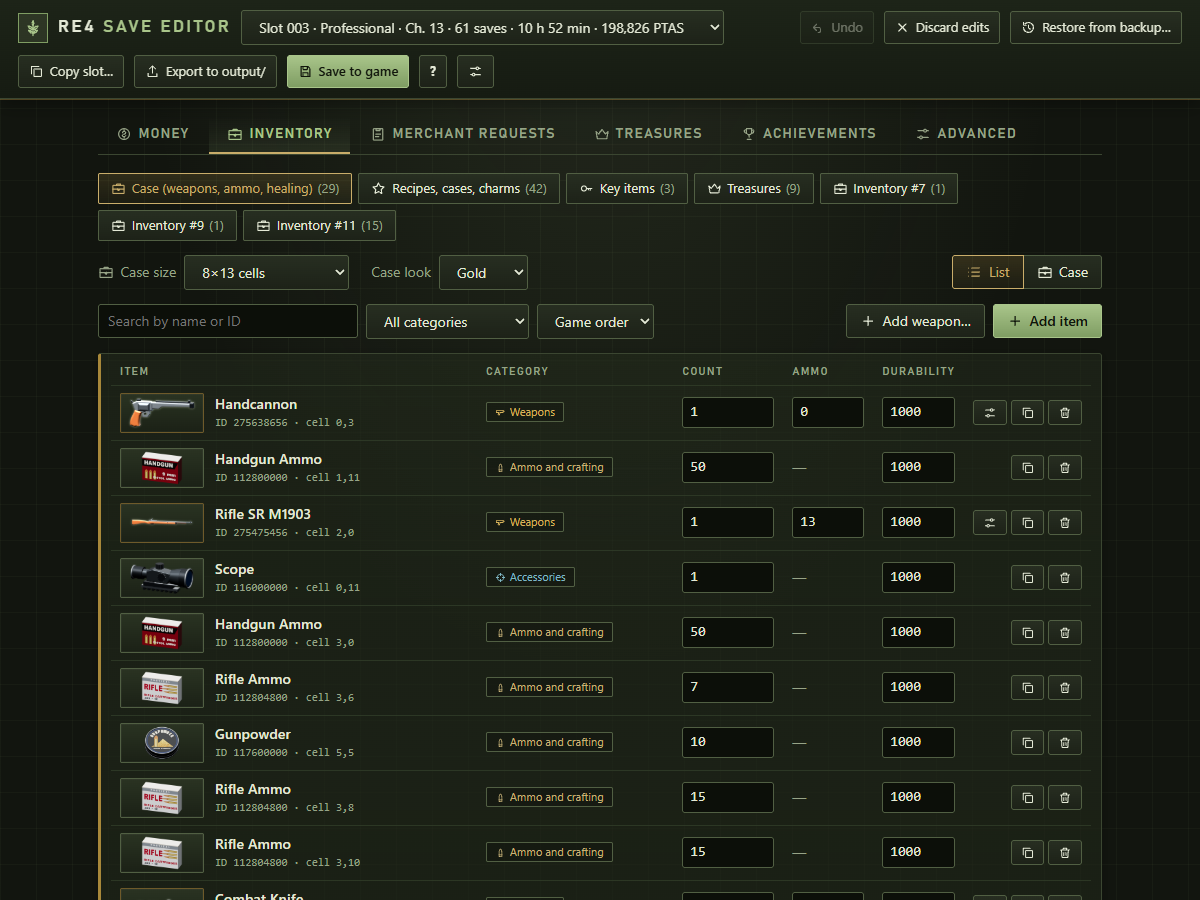
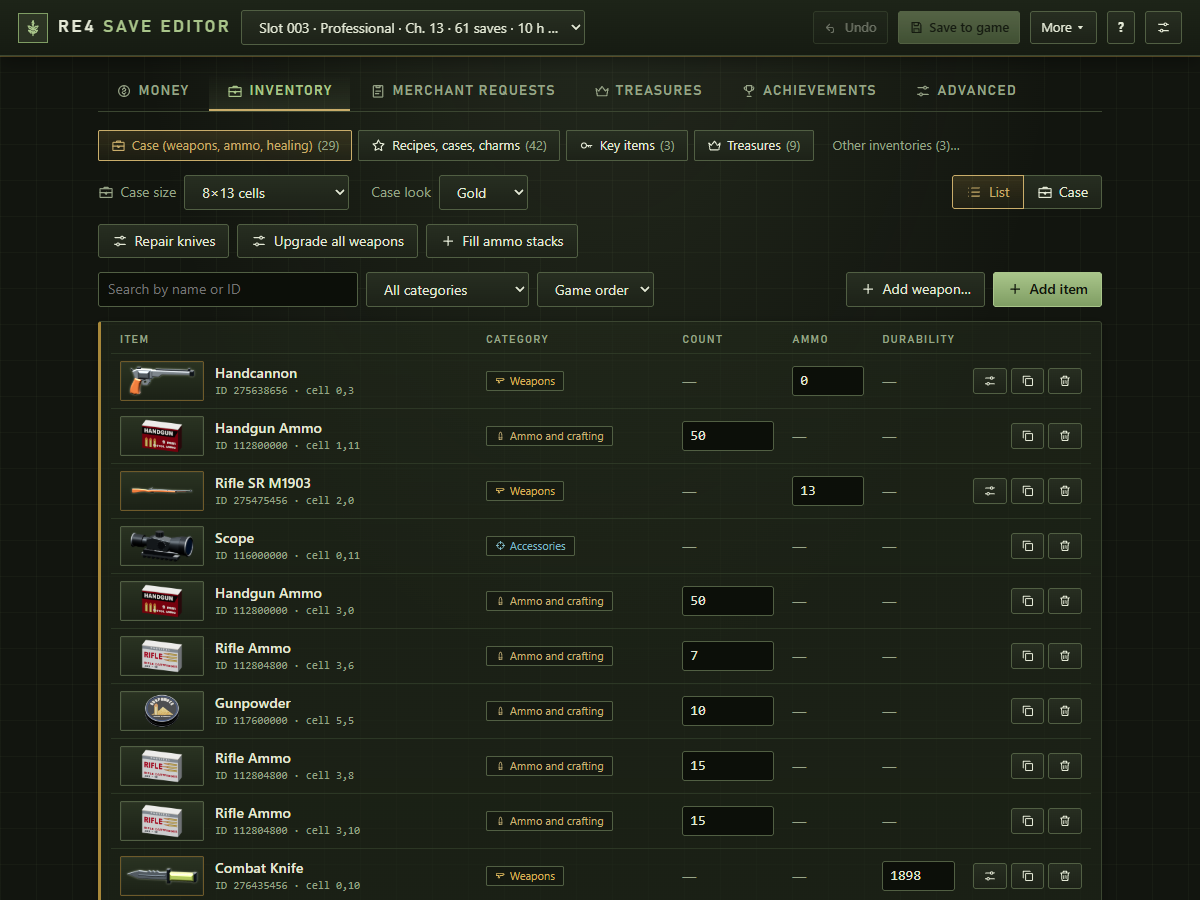
Version 0.9.6 (pre-release)
Short What's new list (the window shows the part before ### Details), release notes, Nexus page text, README and new screenshots.

diff --git a/app/server.js b/app/server.js
@@ -328,7 +328,8 @@ function releaseNotes(version) {
   const lines = text.split(/\r?\n/); const start = lines.findIndex((l) => l === '## ' + version || l.startsWith('## ' + version + ' '));
   if (start < 0) return [];
   const out = [];
-  for (const l of lines.slice(start + 1)) { if (l.startsWith('## ')) break; if (l.startsWith('- ')) out.push(l.slice(2).trim()); }
+  // only the short list at the top of the section: the full list follows under "### Details"
+  for (const l of lines.slice(start + 1)) { if (l.startsWith('## ') || l.startsWith('### ')) break; if (l.startsWith('- ')) out.push(l.slice(2).trim()); }
   return out;
 }
 

diff --git a/docs/RELEASE-0.9.6.md b/docs/RELEASE-0.9.6.md
@@ -1,0 +1,77 @@
+# RE4 Save Editor v0.9.6 (pre-release)
+
+An unofficial, local save editor for **Resident Evil 4 (2023 remake), Steam, Windows**. It runs on your own computer and never sends your saves anywhere.
+
+> [!WARNING]
+> **Pre-release. Use at your own risk.** Editing saves can corrupt them. The editor makes a backup before every write and keeps a protected first-run copy of every slot, but keep your own copies too. It is best to close the game before saving, and consider turning off Steam Cloud for RE4.
+
+## What is new in 0.9.6
+
+The first start of this version shows a short **What's new** window (once; it can be opened again from the **?** dialog).
+
+- **Start screen** with a card for every save slot: the look of the case, chapter, play time, money. A click opens the slot.
+- **Grenades** (hand, heavy, flash) can be added with **Add item**. The Heavy and Flash Grenade take two cells, as in the game.
+- **Quick buttons** above the case: **Upgrade all weapons**, **Repair knives** (full durability by the knife's upgrade level), **Fill ammo stacks**.
+- **Separate Ways**: the seven merchant requests have names, descriptions and rewards.
+- **Safer editing**
+  - Money: a negative amount was written as about 4.3 billion. Pesetas now take 0 to 99,999,999 and Spinel 0 to 999; counts, ammo and durability are checked too.
+  - Choosing another slot with unsaved edits asks first (before, the edits were dropped silently).
+  - Deleting a key item warns that the story may need it; key items, recipes, case skins and charms cannot be copied.
+  - **Save to game** and **Discard edits** are available only when there are edits.
+- **Easier to use**
+  - Questions in the editor's own window with clear buttons; **Ctrl+S** for Save to game.
+  - Weapon upgrades are set with steps, like the bars at the Merchant.
+  - A tidier header: Discard edits, Restore from backup, Copy slot and Export are in the **More** menu.
+  - The Inventory list shows only the numbers that mean something; **Add item** shows pictures; the other inventories the save keeps are named and hidden.
+  - Names for most of the items that were shown as numbers; the case fits narrow windows.
+- **New pictures** for the key items.
+
+## What was new in 0.9.5
+
+- Undo, keys in the Case view, pictures and a space check in **Add weapon…**, pictures in the Inventory lists, many icons redrawn, fixed sizes of three accessories.
+
+## What you can do
+
+- **Money**: Pesetas and Spinel.
+- **Attaché case**: add, copy and delete items from a catalogue of ~220, change counts, ammo and durability, change the **case size** and the **case look** (Silver, Black, Leather, Gold, Classic).
+- **Case view**: your case lying down like in the game, with original 3D-rendered icons for every item and weapon. Drag items to move them, rotate them, or press **Sort** to tidy the case.
+- **Weapons**: add a new one or copy one from another slot; upgrade levels 0-4, **Full upgrade**, **Upgrade all weapons** and a switch for the exclusive upgrade.
+- **Merchant requests**, **treasures**, **achievements** (read-only hints) and an **Advanced** raw field view (asks for a one-time confirmation).
+- **Safety**: a "game is running" warning, a summary of every change before writing, writes that are decrypted back and compared before they replace the file, a backup manager and restore, copying one slot into another.
+
+## Download
+
+**`RE4SaveEditor-0.9.6-windows-allinone.zip`** (38.7 MB): extract it anywhere and double-click `Start RE4 Save Editor.js`. Nothing to install: Node.js is inside and the save encryption is built in. If Windows asks whether to run the script, choose Open / Run; if `Start RE4 Save Editor.js` opens in a text editor, use "Open with > Microsoft Windows Based Script Host".
+
+SHA-256:
+
+```text
+dbc384f43aea557c8dccaec7727a22e2acbe85f2f0383592eed841ebb4fbe185  RE4SaveEditor-0.9.6-windows-allinone.zip
+```
+
+A smaller script-only package (needs [Node.js](https://nodejs.org) 20+ installed) is published on Nexus Mods. To build from source: `git clone`, run `build.bat` once, then `start.bat`.
+
+**VirusTotal:** [report for this file](https://www.virustotal.com/gui/file/dbc384f43aea557c8dccaec7727a22e2acbe85f2f0383592eed841ebb4fbe185).
+
+## Quick start
+
+1. Preferably close the game (writing from the main menu and then loading the slot also works).
+2. Start the editor, pick a slot on the start screen, edit, press **Save to game**. A summary of the changes is shown first.
+3. **More > Restore from backup...** undoes a write at any time.
+
+The save folder (`<Steam>/userdata/<account>/2050650/remote/win64_save`) is found automatically; use the gear button if you have several Steam accounts.
+
+## Known limitations
+
+- Item sizes in the case are taken from real layouts; a few items may still look different in the game.
+- Weapon upgrade levels are limited to 0-4 (the highest seen in real saves). Some weapons have fewer upgrades; the editor does not know which.
+- Not every weapon can be added as new: the main-game W-870, Striker, TMP, CQBR, Broken Butterfly, Bolt Thrower, the rocket launchers and some knives are not in the list. Eggs cannot be added.
+- Names of merchant requests are not stored in the save; the mapping is partly inferred.
+- Tested on a limited set of saves and one game version; a game patch may change the save format (the editor then disables structural edits and says so).
+- Windows and the Steam version only.
+
+## Feedback
+
+Please open an issue and describe what happened (the editor's **Copy diagnostics** button gives a report without personal data). Please **do not attach your save files** to an issue: a save is tied to your Steam account number (not your password or e-mail), which would become public.
+
+Full list of changes: [CHANGELOG.md](https://github.com/distrix11/RE4-Remake-Save-Editor/blob/main/CHANGELOG.md).

diff --git a/README.md b/README.md
@@ -13,16 +13,16 @@ It runs on your own computer, opens in your browser or its own window and never 
 > Editing saves can corrupt them. The editor makes a backup before every write, but keep your own copies too.
 
 > [!NOTE]
-> This is a pre-release (0.9.5). It has been tested on a limited set of saves; please report what you find.
+> This is a pre-release (0.9.6). It has been tested on a limited set of saves; please report what you find.
 
-**New in 0.9.5:** Undo, keyboard keys in the Case view, a space check when adding weapons, pictures in the Inventory lists, many item icons redrawn, and fixed sizes of three accessories. [Release notes](https://github.com/distrix11/RE4-Remake-Save-Editor/releases/tag/v0.9.5)
+**New in 0.9.6:** a start screen with your slots, grenades, Upgrade all weapons / Repair knives / Fill ammo stacks, named Separate Ways requests, safer editing (money limits, a question before unsaved edits are dropped, key items protected), new key item pictures. [Release notes](https://github.com/distrix11/RE4-Remake-Save-Editor/releases/tag/v0.9.6)
 
 ## Features
 
 - <img src="icons/items/gold_bar.png" height="26" align="top"> **Money**: Pesetas and Spinel.
 - <img src="icons/items/case_gold.png" height="26" align="top"> **Inventory** (attaché case, key items, treasures, recipes/charms):
   search, category filter, sorting; edit counts, ammo, durability and item IDs;
-  **add** items from a catalog of ~220 items, **duplicate**, **delete**;
+  **add** items from a catalog of ~220 items (grenades included), **duplicate**, **delete**;
   **case size** selector; **grenades** can be added too; **Repair knives** and **Fill ammo stacks** buttons; a **Case view** (the case lying down, like in the game) where items are moved by dragging and rotated; **weapon upgrades** (levels 0-4, a **Full upgrade** button and the exclusive upgrade switch), **Add weapon…** (a new weapon from a built-in list, or a copy from another of your slots, with its picture and whether it fits the case now) and a **Sort** button that tidies the case; **Undo** (button or Ctrl+Z) takes back the last changes one by one, **Ctrl+S** saves to the game (after the summary), **Upgrade all weapons** fully upgrades the whole case, and the start screen shows a card for every slot.
 - <img src="icons/items/recipe.png" height="26" align="top"> **Merchant requests**: shows the goals of every request and can mark the goals as completed.
 - <img src="icons/items/crown.png" height="26" align="top"> **Treasures**: which treasure types you have obtained and how many world pickups are recorded per area (approximate).

diff --git a/CHANGELOG.md b/CHANGELOG.md
@@ -1,6 +1,15 @@
 # Changelog
 
-## Unreleased (for 0.9.6)
+## 0.9.6 (pre-release)
+- **Start screen** with a card for every save slot.
+- **Grenades** can be added (hand, heavy, flash).
+- New buttons above the case: **Upgrade all weapons**, **Repair knives**, **Fill ammo stacks**.
+- **Separate Ways**: the merchant requests have names, descriptions and rewards.
+- Safer: money cannot become a wrong number, switching slots asks before dropping edits, key items warn before you delete them.
+- Easier to use: own question windows, **Ctrl+S**, upgrade steps like at the Merchant, a **More** menu in the header.
+- New pictures for the key items.
+
+### Details
 - **Grenades** (hand, heavy, flash) can be added with **Add item**.
 - Fixed the case size of the Heavy and Flash Grenade (two cells, not one): the game deleted one that stuck out of the case.
 - Buttons **Repair knives** and **Fill ammo stacks** above the case.
